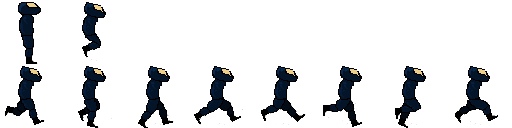
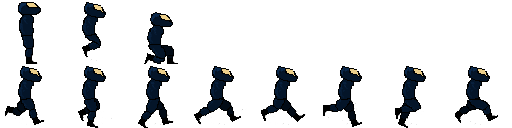
Crouching implemented, collision detection edited for crouching - not finished tho

Changed region(s): [[0.2812, 0.0938, 0.3438, 0.5]]

diff --git a/Test/Test/Player.cs b/Test/Test/Player.cs
@@ -24,16 +24,17 @@ namespace Test
         Texture2D crosshair;
          
         Rectangle[] sources = new Rectangle[] {
-            new Rectangle(0, 0, 64, 64), //IDLE
-            new Rectangle(64, 0, 64, 64), //JUMP
-            new Rectangle(0, 64, 64, 64), //Running
-            new Rectangle(64, 64, 64, 64),
-            new Rectangle(128, 64, 64, 64), 
-            new Rectangle(192, 64, 64, 64), 
-            new Rectangle(256, 64, 64, 64), 
-            new Rectangle(320, 64, 64, 64),
-            new Rectangle(384, 64, 64, 64), 
-            new Rectangle(448, 64, 64, 64) //END Running
+            new Rectangle(0, 0, 64, 64), //IDLE         //0
+            new Rectangle(64, 0, 64, 64), //JUMP        //1
+            new Rectangle(0, 64, 64, 64), //Running     //2
+            new Rectangle(64, 64, 64, 64),              //3
+            new Rectangle(128, 64, 64, 64),             //4
+            new Rectangle(192, 64, 64, 64),             //5
+            new Rectangle(256, 64, 64, 64),             //6
+            new Rectangle(320, 64, 64, 64),             //7
+            new Rectangle(384, 64, 64, 64),             //8
+            new Rectangle(448, 64, 64, 64), //END Running 9
+            new Rectangle(128, 0, 64, 64) //Crouch      //10
         };
 
         List<Bullet> bullets;
@@ -82,6 +83,8 @@ namespace Test
 
         public bool Jumping { get; set; }
 
+        public bool Crouching { get; set; }
+
         public bool Push { get; set; }
 
         public FlashDoor IntersectWithSwitch { get; set; }
@@ -95,6 +98,7 @@ namespace Test
             this.Color = Color.White;
             this.Falling = true;
             this.Jumping = false;
+            this.Crouching = false;
             this.Push = false;
             this.bullets = new List<Bullet>();
         }
@@ -121,6 +125,14 @@ namespace Test
             else if (IntersectWithSwitch != null && !IntersectWithSwitch.Switch && currentKeyboardState.IsKeyDown(Keys.E) && !oldKeyboardState.IsKeyDown(Keys.E))
                 IntersectWithSwitch.Switch = true;
 
+            if (currentKeyboardState.IsKeyDown(Keys.S) && !Falling && !Jumping)
+            {
+                this.Crouching = true;
+                DX = 0;
+            }
+            else
+                this.Crouching = false;
+
             this.UpdateMovement(currentKeyboardState, oldKeyboardState, theGameTime);
             this.UpdateAnimation();
 
@@ -137,9 +149,9 @@ namespace Test
                 this.Color = Color.Red;
 
             if (currentFacing == Facing.Right)
-                gunPosition = new Vector2(X + 26 * this.Scale, Y + 20 * this.Scale);
+                gunPosition = Crouching ? new Vector2(X + 27 * this.Scale, Y + 32 * this.Scale) : new Vector2(X + 26 * this.Scale, Y + 20 * this.Scale);
             else
-                gunPosition = new Vector2(X + 38 * this.Scale, Y + 20 * this.Scale);
+                gunPosition = Crouching ? new Vector2(X + 36 * this.Scale, Y + 32 * this.Scale) : new Vector2(X + 38 * this.Scale, Y + 20 * this.Scale);
 
             crosshairPosition = new Vector2(mouseState.X + camera.origin.X, mouseState.Y + camera.origin.Y);
         }
@@ -218,12 +230,12 @@ namespace Test
 
             if(!Push) //if player is not pushed away from doors (you cannot control your movement during that)
             { 
-                if (currentKeyboardState.IsKeyDown(Keys.D) && oldKeyboardState.IsKeyUp(Keys.A) && !Jumping && !Falling) //!jumping && !falling so you cannot modify horizontal movement while jumping/falling
+                if (currentKeyboardState.IsKeyDown(Keys.D) && oldKeyboardState.IsKeyUp(Keys.A) && !Jumping && !Falling && !Crouching) //!jumping && !falling so you cannot modify horizontal movement while jumping/falling
                 {
                     DX = 1;
                     currentFacing = Facing.Right;
                 }
-                else if (currentKeyboardState.IsKeyDown(Keys.A) && oldKeyboardState.IsKeyUp(Keys.D) && !Jumping && !Falling)
+                else if (currentKeyboardState.IsKeyDown(Keys.A) && oldKeyboardState.IsKeyUp(Keys.D) && !Jumping && !Falling && !Crouching)
                 {
                     DX = -1;
                     currentFacing = Facing.Left;
@@ -268,7 +280,7 @@ namespace Test
         public void Draw(SpriteBatch theSpriteBatch)
         {
             //draw body
-            theSpriteBatch.Draw(body,  this.Position, this.Source, this.Color, 0.0f, Vector2.Zero, this.Scale, 
+            theSpriteBatch.Draw(body, this.Position, Crouching ? sources[10] : this.Source, this.Color, 0.0f, Vector2.Zero, this.Scale, 
                 currentFacing == Facing.Right ? SpriteEffects.None : SpriteEffects.FlipHorizontally, 0.0f);
             
             //draw gun

diff --git a/Test/Test/Tower.cs b/Test/Test/Tower.cs
@@ -24,7 +24,7 @@ namespace Test
         int vision = 375;
 
         float reloadTime = 0f;
-        float initRealoadTime = 0.05f; //1.0f - 1.25f
+        float initRealoadTime = 1.15f; //1.0f - 1.25f
 
         Rectangle[] sources = new Rectangle[] {
             new Rectangle(0, 0, 64, 64),
@@ -91,7 +91,7 @@ namespace Test
 
             foreach (Rocket r in rockets)
                 if (r.Visible)
-                    r.Update(theGameTime, new Vector2((p.X + 21 * p.Scale) - r.X, (p.Y + 3 * p.Scale) - r.Y)); //(p.x+20); (p.y+2) so id doesn't aim at player.origin 
+                    r.Update(theGameTime, new Vector2((p.X + 21 * p.Scale) - r.X, (p.Y + 3 * p.Scale) - r.Y)); //(p.x+20); (p.y+3) so id doesn't aim at player.origin 
 
             this.Animate();
             this.RemoveRocket(explosions);

diff --git a/Test/Test/CollisionHandler.cs b/Test/Test/CollisionHandler.cs
@@ -34,7 +34,8 @@ namespace Test
 
         public void HandleDoorCollision(Player p, EnemyHandler e)
         {
-            playerRectangle = new Rectangle((int)(p.X + 16 * p.Scale), (int)(p.Y + 1 * p.Scale), (int)(27 * p.Scale), (int)(63 * p.Scale));
+            playerRectangle = p.Crouching ? new Rectangle((int)(p.X + 12 * p.Scale), (int)(p.Y + 15 * p.Scale), (int)(27 * p.Scale), (int)(49 * p.Scale)) : 
+                                            new Rectangle((int)(p.X + 16 * p.Scale), (int)(p.Y + 1 * p.Scale), (int)(27 * p.Scale), (int)(63 * p.Scale));
             foreach(FlashDoor f in e.doors)
             {
                 if(f.Switch)
